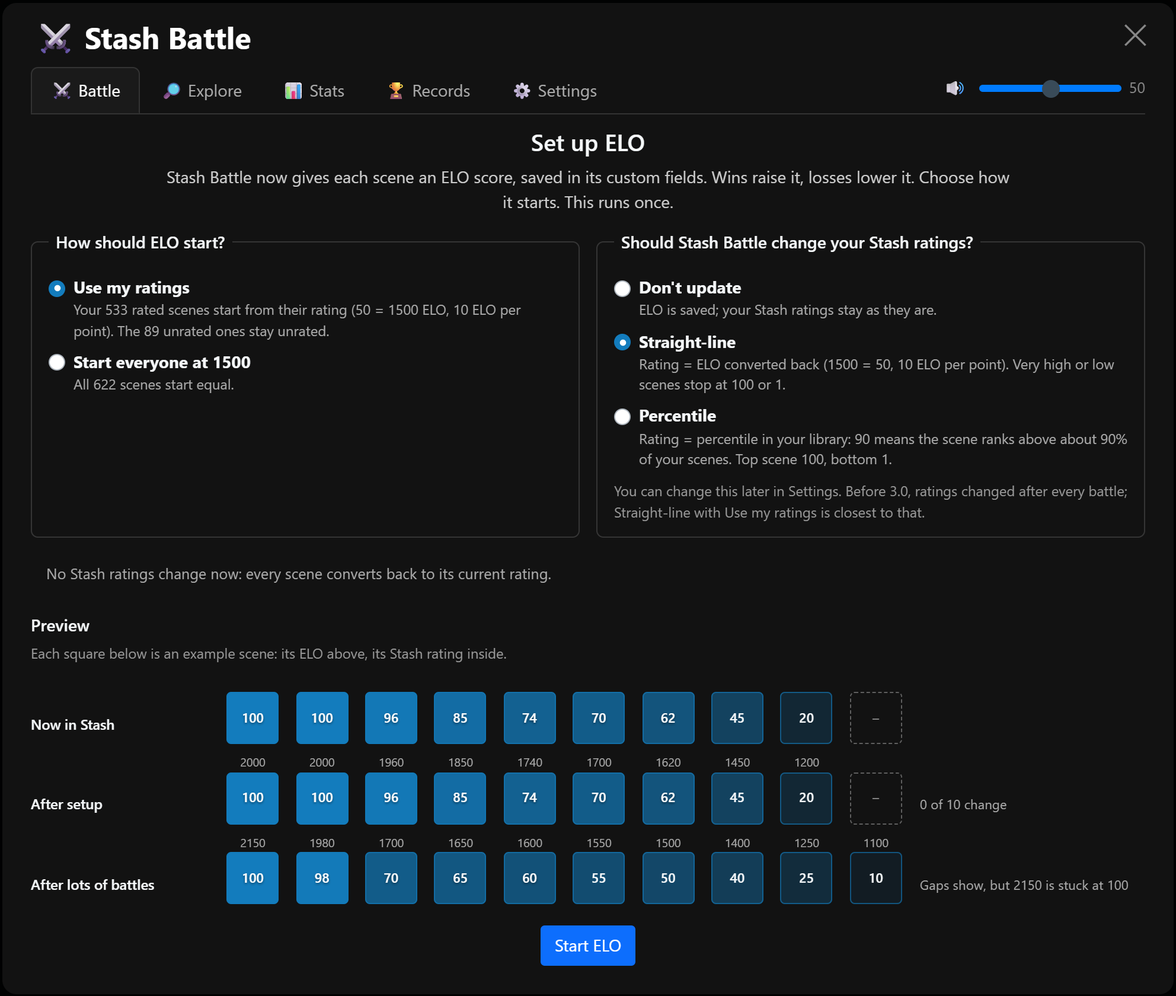
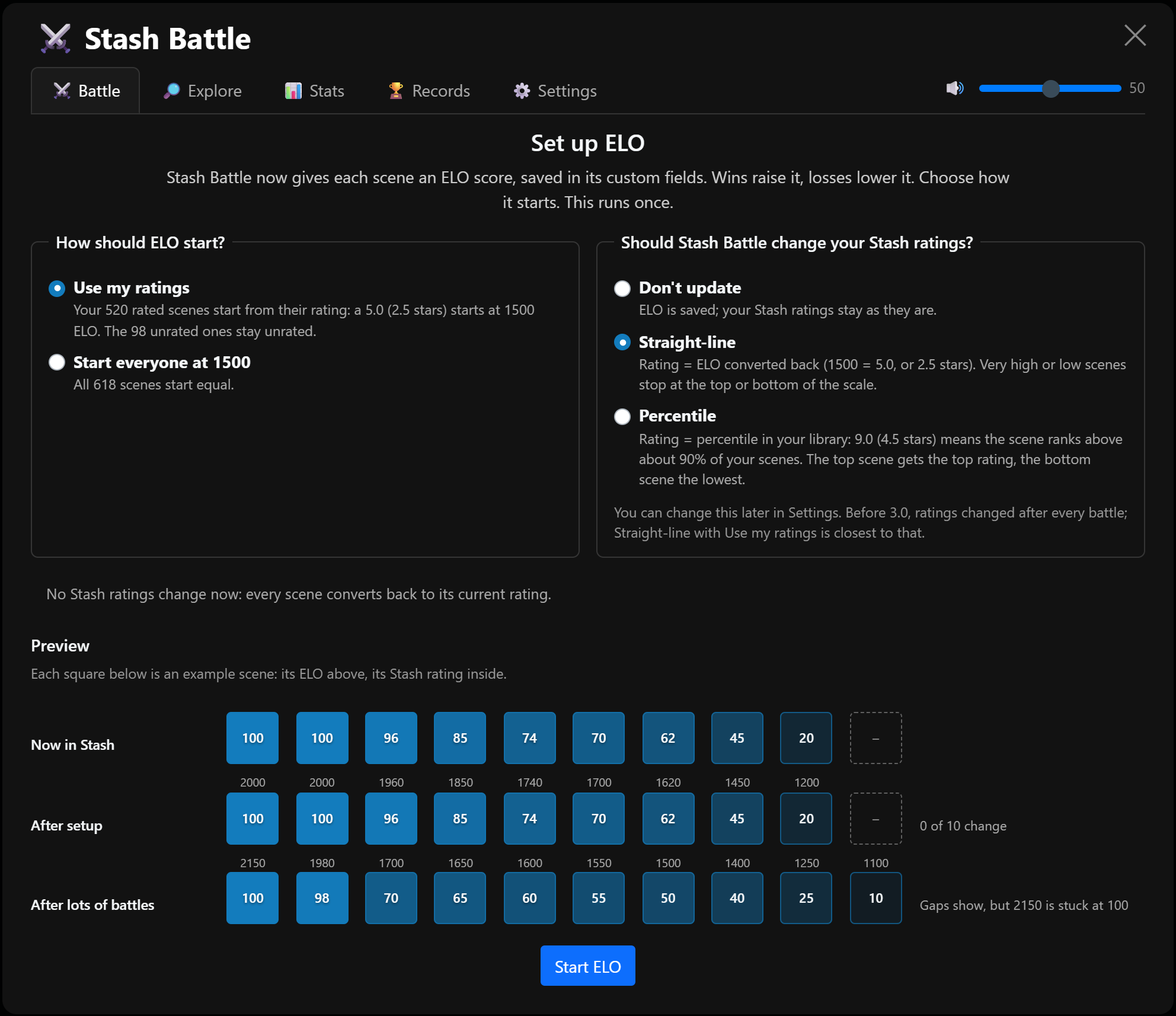
README: screenshots beside their features, shorter wording; ratings as 5.0 / stars.
The README's Features are subsections with their screenshot under each,
and the scene page's ELO button has screenshots now (new scene-page
shots in the screenshot script, everything else on the page hidden).
Ratings are described as users see them, "5.0 (2.5 stars)", not on
Stash's stored 1-100 scale, in the README, CHANGELOG, setup screen and
the Stash ratings descriptions.

diff --git a/plugins/stash-battle/stash-battle.js b/plugins/stash-battle/stash-battle.js
@@ -2343,12 +2343,12 @@
     {
       value: "linear",
       label: "Straight-line",
-      desc: "Rating = ELO converted back (1500 = 50, 10 ELO per point). Very high or low scenes stop at 100 or 1."
+      desc: "Rating = ELO converted back (1500 = 5.0, or 2.5 stars). Very high or low scenes stop at the top or bottom of the scale."
     },
     {
       value: "percentile",
       label: "Percentile",
-      desc: "Rating = percentile in your library: 90 means the scene ranks above about 90% of your scenes. Top scene 100, bottom 1."
+      desc: "Rating = percentile in your library: 9.0 (4.5 stars) means the scene ranks above about 90% of your scenes. The top scene gets the top rating, the bottom scene the lowest."
     }
   ];
   function stashRatingsOption(value) {
@@ -3146,7 +3146,7 @@
     if (state.settings.stashRatings === "off") {
       notes.push("Stash ratings aren't being updated, so there's no rating scale under the chart.");
     } else if (state.settings.stashRatings === "percentile") {
-      notes.push("Percentile spreads ratings 1-100 by rank, so the scale follows your library.");
+      notes.push("Percentile spreads ratings across the whole scale by rank, so the scale follows your library.");
     }
     return notes.length ? `<p class="sb-stats-note">${notes.join(" ")}</p>` : "";
   }
@@ -4429,9 +4429,9 @@
       text = "No Stash ratings change now: every scene converts back to its current rating.";
       warn = false;
     } else if (start === "fresh") {
-      text = `⚠ Every scene starts at 1500 ELO, so <strong>every Stash rating becomes 50</strong>: ${plural2(changes, "rating")} change, unrated scenes included. ${backup}`;
+      text = `⚠ Every scene starts at 1500 ELO, so <strong>every Stash rating becomes 5.0 (2.5 stars)</strong>: ${plural2(changes, "rating")} change, unrated scenes included. ${backup}`;
     } else {
-      text = `⚠ <strong>${plural2(changes, "Stash rating")} change</strong> now, spread evenly by rank. A scene you rated 100 by hand may end up lower. ${backup}`;
+      text = `⚠ <strong>${plural2(changes, "Stash rating")} change</strong> now, spread evenly by rank. A scene you rated 10.0 (5 stars) by hand may end up lower. ${backup}`;
     }
     return `<p class="sb-setup-message${warn ? " sb-setup-warning" : ""}">${text}</p>`;
   }
@@ -4457,7 +4457,7 @@
       "start",
       "ratings",
       "Use my ratings",
-      `Your ${plural2(rated, "rated scene")} start from their rating (50 = 1500 ELO, 10 ELO per point).${unrated > 0 ? ` The ${unrated} unrated ${unrated === 1 ? "one stays" : "ones stay"} unrated.` : ""}`,
+      `Your ${plural2(rated, "rated scene")} start from their rating: a 5.0 (2.5 stars) starts at 1500 ELO.${unrated > 0 ? ` The ${unrated} unrated ${unrated === 1 ? "one stays" : "ones stay"} unrated.` : ""}`,
       true
     )}
             ${radio(

diff --git a/src/ui/setupScreen.ts b/src/ui/setupScreen.ts
@@ -101,9 +101,9 @@ function ratingsMessage(start: EloStart, mode: StashRatingsMode, changes: number
     text = "No Stash ratings change now: every scene converts back to its current rating.";
     warn = false;
   } else if (start === "fresh") {
-    text = `⚠ Every scene starts at 1500 ELO, so <strong>every Stash rating becomes 50</strong>: ${plural(changes, "rating")} change, unrated scenes included. ${backup}`;
+    text = `⚠ Every scene starts at 1500 ELO, so <strong>every Stash rating becomes 5.0 (2.5 stars)</strong>: ${plural(changes, "rating")} change, unrated scenes included. ${backup}`;
   } else {
-    text = `⚠ <strong>${plural(changes, "Stash rating")} change</strong> now, spread evenly by rank. A scene you rated 100 by hand may end up lower. ${backup}`;
+    text = `⚠ <strong>${plural(changes, "Stash rating")} change</strong> now, spread evenly by rank. A scene you rated 10.0 (5 stars) by hand may end up lower. ${backup}`;
   }
   return `<p class="sb-setup-message${warn ? " sb-setup-warning" : ""}">${text}</p>`;
 }
@@ -144,7 +144,7 @@ function renderChoices(area: HTMLElement, scenes: Scene[], onDone: () => void): 
               "start",
               "ratings",
               "Use my ratings",
-              `Your ${plural(rated, "rated scene")} start from their rating (50 = 1500 ELO, 10 ELO per point).${unrated > 0 ? ` The ${unrated} unrated ${unrated === 1 ? "one stays" : "ones stay"} unrated.` : ""}`,
+              `Your ${plural(rated, "rated scene")} start from their rating: a 5.0 (2.5 stars) starts at 1500 ELO.${unrated > 0 ? ` The ${unrated} unrated ${unrated === 1 ? "one stays" : "ones stay"} unrated.` : ""}`,
               true,
             )}
             ${radio(

diff --git a/src/ui/stashRatingsText.ts b/src/ui/stashRatingsText.ts
@@ -7,12 +7,12 @@ export const STASH_RATINGS_OPTIONS: readonly { value: StashRatingsMode; label: s
   {
     value: "linear",
     label: "Straight-line",
-    desc: "Rating = ELO converted back (1500 = 50, 10 ELO per point). Very high or low scenes stop at 100 or 1.",
+    desc: "Rating = ELO converted back (1500 = 5.0, or 2.5 stars). Very high or low scenes stop at the top or bottom of the scale.",
   },
   {
     value: "percentile",
     label: "Percentile",
-    desc: "Rating = percentile in your library: 90 means the scene ranks above about 90% of your scenes. Top scene 100, bottom 1.",
+    desc: "Rating = percentile in your library: 9.0 (4.5 stars) means the scene ranks above about 90% of your scenes. The top scene gets the top rating, the bottom scene the lowest.",
   },
 ];
 

diff --git a/src/ui/statsTab.ts b/src/ui/statsTab.ts
@@ -186,7 +186,7 @@ function distributionNote(): string {
   if (state.settings.stashRatings === "off") {
     notes.push("Stash ratings aren't being updated, so there's no rating scale under the chart.");
   } else if (state.settings.stashRatings === "percentile") {
-    notes.push("Percentile spreads ratings 1-100 by rank, so the scale follows your library.");
+    notes.push("Percentile spreads ratings across the whole scale by rank, so the scale follows your library.");
   }
   return notes.length ? `<p class="sb-stats-note">${notes.join(" ")}</p>` : "";
 }

diff --git a/README.md b/README.md
@@ -18,81 +18,106 @@ ELO is saved in each scene's custom fields, so **Stash Battle doesn't touch your
 
 ## Features
 
-- **Three Comparison Modes:**
-  - **Swiss** ⚖ – Fair matchups between scenes with similar ELO. Both scenes' ELO changes after every pick. Scenes stay in the pool, so you can keep battling a small filter indefinitely.
-  - **Placement** 📍 – Place a scene fast. Each pick narrows the range of ranks it could land in (shown on its card). A rated scene starts near its current rank and takes bigger jumps while it keeps winning or losing, then bounces back with smaller steps once it overshoots. An unrated scene lands in about 10 picks even in a library of 500+ scenes. Only the placed scene's ELO changes, once, when it lands.
-    - **Start from the bottom** (a setting, and the replacement for Gauntlet): the scene ignores its current ELO, starts against your lowest scene and climbs, jumping further with each win (never more than a tenth of your library at once). A scene that never loses earns the Champion screen.
-  - **Champion** 🏆 – Winner stays on. The winning scene keeps defending until it's beaten, then the winner takes over. Both scenes' ELO changes every pick.
+### Three comparison modes
 
-- **One-time ELO setup**: the first time you open Stash Battle, choose how ELO starts (from your current star ratings, so your existing order carries over, or 1500 for every scene) and whether Stash ratings should be updated. A live preview shows what each choice does. You can start over any time with **Reset ELO** in Settings.
+- **Swiss** ⚖ – Fair matchups between scenes with similar ELO. Both scenes' ELO changes after every pick. Scenes stay in the pool, so you can keep battling a small filter indefinitely.
+- **Placement** 📍 – Place a scene fast. Each pick narrows the range of ranks it could land in (shown on its card). A rated scene starts near its current rank and takes bigger jumps while it keeps winning or losing, then bounces back with smaller steps once it overshoots. An unrated scene lands in about 10 picks even in a library of 500+ scenes. Only the placed scene's ELO changes, once, when it lands.
+  - **Start from the bottom** (a setting, and the replacement for Gauntlet): the scene ignores its current ELO, starts against your lowest scene and climbs, jumping further with each win (never more than a tenth of your library at once). A scene that never loses earns the Champion screen.
+- **Champion** 🏆 – Winner stays on. The winning scene keeps defending until it's beaten, then the winner takes over. Both scenes' ELO changes every pick.
 
-- **Stash ratings update mode** (Settings): your choice of whether Stash Battle writes your Stash ratings:
-  - **Don't update** (default): ELO is saved; your star ratings stay as they are.
-  - **Straight-line**: rating = ELO converted back (1500 = 50, 10 ELO per point). Very high or low scenes stop at 100 or 1.
-  - **Percentile**: rating = percentile in your library. 90 means the scene ranks above about 90% of your scenes; the top scene is 100, the bottom 1.
+| Placement | Champion |
+|-----------|----------|
+| <img width="420" alt="Placement mode: the scene being placed shows the range of ranks it could land in" src="docs/screenshots/placement.png" /> | <img width="420" alt="Champion mode: the winning scene stays on with a win streak badge" src="docs/screenshots/champion.png" /> |
 
-  Switching to Straight-line or Percentile tells you how many ratings will change before anything is written. While an update mode is on, each battle updates only the ratings that changed, and Stash's own pages show the new ratings without a refresh.
+### Scene cards
 
-- **Filtering**: Apply any filters on the scenes page before opening Stash Battle. What you see on the scenes page is what you get in Stash Battle, in every mode; a line above the cards shows whether you're rating your filter or your whole library, and how many scenes that is. By default, filtered scenes appear on the left (scenes to rate) and opponents come from your full library on the right.
+As in the screenshot at the top, each card shows the scene's tier, ELO and rank (`ELO 1740 · #50`), its record (`Record: 12–5`) and its Stash rating.
 
-- **Scene cards** show each scene's tier, ELO and rank (`ELO 1740 · #50`), its record (`Record: 12–5`) and its Stash rating.
-  - **Win chances** at the VS, like a chess broadcast: `68%` VS `32%`. Win with 40% or less and the result says **Upset!**
-  - **Tiers** 👑 Legendary · 💎 Diamond · 🔷 Platinum · 🥇 Gold · 🥈 Silver · 🥉 Bronze, by where a scene ranks among your settled scenes (top 1%, 5%, 15%, 35%, 65%, the rest), so every tier always has scenes in it. The card's border takes the tier's colour (a setting).
-  - A **`?`** after the ELO (`ELO 1540?`) means it's still settling: the scene has had fewer than 10 battles, and its ELO still moves a lot.
-
+- **Win chances** at the VS, like a chess broadcast: `68%` VS `32%`. Win with 40% or less and the result says **Upset!**
+- **Tiers** 👑 Legendary · 💎 Diamond · 🔷 Platinum · 🥇 Gold · 🥈 Silver · 🥉 Bronze, by where a scene ranks among your settled scenes (top 1%, 5%, 15%, 35%, 65%, the rest), so every tier always has scenes in it. The card's border takes the tier's colour (a setting).
+- A **`?`** after the ELO (`ELO 1540?`) means it's still settling: the scene has had fewer than 10 battles, and its ELO still moves a lot.
 - **↶ Undo** (or Backspace) takes back your last pick: both scenes' ELO and records, a Champion streak or Placement run, and the same pair comes back to pick again.
 
-- **🔎 Explore tab**: your whole library as small cards ranked by ELO. Search by title, studio or performer, filter by tier, provisional or unrated, pick an ELO range, and sort by ELO, plays, battles, best record, highest peak or longest win streak. Hover a card for its preview, click it to open the scene, or ⚔ to battle it. **Battle these N scenes** battles everything the filter shows (unrated scenes go straight to Placement) until you press Stop.
+### One-time ELO setup
 
-- **📊 Stats tab**:
-  - **Overview**: scenes with an ELO, unrated, provisional, total battles.
-  - **How settled** your rankings are, by battle count, with **Battle the least-tested**: Swiss puts your least-battled scenes on the left first, until you stop it.
-  - **ELO distribution**, with your Stash rating scale under it. Click a bar to see those scenes in Explore.
-  - **Hidden gems / overplayed**: ELO against play count. Top left are scenes you rank highly but rarely watch. Hover a dot to see the scene.
+The first time you open Stash Battle, choose how ELO starts (from your current star ratings, so your existing order carries over, or 1500 for every scene) and whether Stash ratings should be updated. A live preview shows what each choice does. You can start over any time with **Reset ELO** in Settings.
 
-- **🏆 Records tab**: the **hall of fame** (every scene that has ever been #1, and when it got there), the **longest win streaks** and the **highest peak ELOs**. The hall of fame is saved in Stash's plugin settings, so restoring a database backup doesn't change it; **Settings → Clear hall of fame** empties it.
+<img width="600" alt="ELO setup: how ELO starts, whether Stash ratings are updated, and a 10-scene preview" src="docs/screenshots/setup.png" />
 
-- **On Stash's scene pages**, the same `ELO 1740 · #50` sits next to the play count and O count, with the scene's tier emoji as its icon (⚔ while it has no tier). Click it to battle that scene.
+### Stash ratings update mode
 
-- **Settings tab** (most also under Stash's Settings → Plugins). Saves to Stash:
-  - **Stash ratings update mode**, **Reset ELO** (see above) and **Clear hall of fame**
-  - **Use filtered scenes for both sides**
-  - **Placement: start from the bottom**
-  - **Autoplay previews** – both loop silently; hover a card to hear it (on by default)
-  - **Tier colours on card borders** – on by default
-  - **Pause playing video when Stash Battle opens** – on by default; turn it off to keep a scene playing behind the battle
-  - **Open scenes in a new tab** when clicking a thumbnail
-  - **Clean mode** – a 🗑 button on each card opens Stash's own delete dialog (same options and defaults as deleting in Stash), so you can clean up without leaving the battle
+Your choice (in setup or Settings) of whether Stash Battle writes your Stash ratings:
 
-- **Preview volume** slider on the tab bar (it follows perceived loudness); click the speaker to mute or unmute.
+- **Don't update** (default): ELO is saved; your star ratings stay as they are.
+- **Straight-line**: rating = ELO converted back (1500 = 5.0, or 2.5 stars). Very high or low scenes stop at the top or bottom of the scale.
+- **Percentile**: rating = percentile in your library. 9.0 (4.5 stars) means the scene ranks above about 90% of your scenes; the top scene gets the top rating.
 
-- **Works on phones and tablets**: the cards stay side by side on tablets, stack compactly on phones, and Skip and Undo stay pinned at the bottom. On touch screens, tap a thumbnail to play or stop its preview, use 🔊 / 🔇 to hear or mute it, ↗ to open the scene, and ⓘ next to the modes for an explanation of the current mode. Tabs shrink to their emoji on small phones, and when Stash folds its menu away, a ⚔ button sits in the top bar next to other plugins' buttons.
+Switching to Straight-line or Percentile tells you how many ratings will change before anything is written. While an update mode is on, each battle updates only the ratings that changed, and Stash's own pages show the new ratings without a refresh.
 
-- **SFW Switch support**: thumbnails and previews blur when the [SFW Switch](https://github.com/stashapp/CommunityScripts) plugin's SFW mode is on.
+### Filtering
 
-## Screenshots
+Apply any filters on the Scenes page before opening Stash Battle. What you see on the Scenes page is what you get in Stash Battle, in every mode; a line above the cards shows whether you're rating your filter or your whole library, and how many scenes that is. By default, filtered scenes appear on the left (scenes to rate) and opponents come from your full library on the right; with **Use filtered scenes for both sides**, the filter's scenes battle each other.
 
-| Explore | Stats |
-|---------|-------|
-| <img width="480" alt="Explore tab: small scene cards with tier pills and ELO, search, tier filters, ELO range, sort and page controls" src="docs/screenshots/explore.png" /> | <img width="480" alt="Stats tab: overview numbers, how settled the rankings are with Battle the least-tested, and the ELO distribution" src="docs/screenshots/stats.png" /> |
+### 🔎 Explore
 
-| Records | Hidden gems |
-|---------|-------------|
-| <img width="480" alt="Records tab: the hall of fame of scenes that have been #1, the longest win streaks and the highest peak ELOs" src="docs/screenshots/records.png" /> | <img width="480" alt="Stats tab: hidden gems and overplayed, ELO against play count, with a scene's card on hover" src="docs/screenshots/gems.png" /> |
+Your whole library as small cards ranked by ELO. Search by title, studio or performer, filter by tier, provisional or unrated, pick an ELO range, and sort by ELO, plays, battles, best record, highest peak or longest win streak. Hover a card for its preview, click it to open the scene, or ⚔ to battle it. **Battle these N scenes** battles everything the filter shows (unrated scenes go straight to Placement) until you press Stop.
 
-| ELO setup | Settings |
-|-----------|----------|
-| <img width="480" alt="ELO setup: how ELO starts, whether Stash ratings are updated, and a 10-scene preview" src="docs/screenshots/setup.png" /> | <img width="480" alt="Settings tab: Stash ratings update mode, Reset ELO, battle and scene options" src="docs/screenshots/settings.png" /> |
+<img width="600" alt="Explore tab: small scene cards with tier pills and ELO, search, tier filters, ELO range, sort and page controls" src="docs/screenshots/explore.png" />
 
-| Placement mode | Champion mode |
-|----------------|---------------|
-| <img width="480" alt="Placement mode: the scene being placed shows the range of ranks it could land in" src="docs/screenshots/placement.png" /> | <img width="480" alt="Champion mode: the winning scene stays on with a win streak badge" src="docs/screenshots/champion.png" /> |
+### 📊 Stats
 
-On a phone:
+- **Overview**: scenes with an ELO, unrated, provisional, total battles.
+- **See how settled your rankings are**, and battle your least-tested scenes in one click.
+- **ELO distribution**, with your Stash rating scale under it. Click a bar to see those scenes in Explore.
+
+<img width="600" alt="Stats tab: overview numbers, how settled the rankings are with Battle the least-tested, and the ELO distribution" src="docs/screenshots/stats.png" />
+
+- **Hidden gems / overplayed**: ELO against play count. Top left are scenes you rank highly but rarely watch. Hover a dot to see the scene.
+
+<img width="600" alt="Stats tab: hidden gems and overplayed, ELO against play count, with a scene's card on hover" src="docs/screenshots/gems.png" />
+
+### 🏆 Records
+
+The **hall of fame** (every scene that has ever been #1, and when it got there), the **longest win streaks** and the **highest peak ELOs**. The hall of fame is saved in Stash's plugin settings, so restoring a database backup doesn't change it; **Settings → Clear hall of fame** empties it.
+
+<img width="600" alt="Records tab: the hall of fame of scenes that have been #1, the longest win streaks and the highest peak ELOs" src="docs/screenshots/records.png" />
+
+### On Stash's scene pages
+
+The same `ELO 1740 · #50` sits next to the play count and O count, with the scene's tier emoji. Click it to battle that scene.
+
+<img width="455" alt="A scene page's toolbar: the star rating, then a crown emoji with ELO 2114 · #1, then the play count and O count" src="docs/screenshots/scene-page.png" />
+
+<img width="375" alt="On a phone: the line under the scene's title starts with the crown emoji and ELO 2114 · #1" src="docs/screenshots/phone-scene-page.png" />
+
+### Settings
+
+Most are also under Stash's Settings → Plugins. Everything saves to Stash:
+
+- **Stash ratings update mode**, **Reset ELO** (see above) and **Clear hall of fame**
+- **Use filtered scenes for both sides**
+- **Placement: start from the bottom**
+- **Autoplay previews** – both loop silently; hover a card to hear it (on by default)
+- **Pause playing video when Stash Battle opens** – on by default; turn it off to keep a scene playing behind the battle
+- **Tier colours on card borders** – on by default
+- **Open scenes in a new tab** when clicking a thumbnail
+- **Clean mode** – a 🗑 button on each card opens Stash's own delete dialog (same options and defaults as deleting in Stash), so you can clean up without leaving the battle
+
+The **preview volume** slider sits on the tab bar (it follows perceived loudness); click the speaker to mute or unmute.
+
+<img width="600" alt="Settings tab: Stash ratings update mode, Reset ELO, Clear hall of fame, battle and scene options" src="docs/screenshots/settings.png" />
+
+### Phones and tablets
+
+Full phone and tablet support.
 
 | Battle | Explore | Stats |
 |--------|---------|-------|
 | <img width="260" alt="Phone: the two scenes stacked with the win chances between them, emoji tabs, and mute and open buttons on each card" src="docs/screenshots/phone-battle.png" /> | <img width="260" alt="Phone: Explore's filters and two columns of small scene cards" src="docs/screenshots/phone-explore.png" /> | <img width="260" alt="Phone: the Stats tab's overview, how settled the rankings are, and the ELO distribution" src="docs/screenshots/phone-stats.png" /> |
+
+### SFW Switch support
+
+Thumbnails and previews blur when the [SFW Switch](https://github.com/stashapp/CommunityScripts) plugin's SFW mode is on.
 
 ## Installation
 
@@ -111,7 +136,7 @@ Recommend saving a backup of your database beforehand (Settings → Tasks → Ba
 ## Usage
 
 1. (Optional) On the **Scenes** page, apply any filters or search to narrow down which scenes you want to rate (the line above the cards confirms what you're rating)
-2. Click the **Battle** button in the navbar. It's on every page: from the Scenes page it rates your filter's scenes, from anywhere else your whole library
+2. Click the **Battle** button in the navbar
 3. The first time, set up ELO: choose how it starts and whether your Stash ratings should be updated
 4. Choose a mode (hover a mode, or tap ⓘ on a phone, for a short explanation)
 5. Click a scene (or press ← / →) to pick the winner; Space skips the pair, and ↶ Undo (Backspace) takes back a pick
@@ -119,11 +144,9 @@ Recommend saving a backup of your database beforehand (Settings → Tasks → Ba
 
 You can also open Stash Battle on a scene page (the **Battle** button, or the ELO next to the play count), which puts that scene into a battle right away.
 
-Settings live in the **Settings** tab, after **Battle**, **Explore**, **Stats** and **Records**.
-
 ## How It Works
 
-Every scene gets an ELO score, stored in its custom fields (`stash_battle_elo`, alongside `stash_battle_battles` and `stash_battle_seeded`, and its record: `stash_battle_wins`, `_losses`, `_peak`, `_streak` and `_best_streak`). The hall of fame is kept in Stash Battle's plugin settings, so everything follows you across browsers and devices. Scenes start at 1500, or from their star rating if you choose "Use my ratings" at setup (50 stars = 1500, and each rating point is 10 ELO, so 100 = 2000 and 1 = 1010).
+Every scene gets an ELO score, stored in its custom fields (`stash_battle_elo`, alongside `stash_battle_battles` and `stash_battle_seeded`, and its record: `stash_battle_wins`, `_losses`, `_peak`, `_streak` and `_best_streak`). The hall of fame is kept in Stash Battle's plugin settings, so everything follows you across browsers and devices. Scenes start at 1500, or from their star rating if you choose "Use my ratings" at setup (a 5.0 rating, or 2.5 stars, starts at 1500; each 0.1 is 10 ELO, so 10.0 = 2000).
 
 - Beating a higher-rated scene earns more points than beating a lower-rated one
 - Losing to a lower-rated scene costs more points than losing to a higher-rated one

diff --git a/DOCUMENTATION.md b/DOCUMENTATION.md
@@ -114,7 +114,7 @@ The modules have intentional circular references (e.g. `navigation` → `modal` 
 - **esbuild** ([`scripts/build.mjs`](scripts/build.mjs)) bundles `src/main.ts` → `plugins/stash-battle/stash-battle.js` as an IIFE. esbuild transpiles but does **not** type-check.
 - **TypeScript** ([`tsconfig.json`](tsconfig.json), `strict: true`) is used purely for type-checking via `tsc --noEmit`.
 - **Headless harness** ([`scripts/harness.mjs`](scripts/harness.mjs)): `playwright-core` drives the Chrome (or Edge) already installed, headless, against the running Stash (`STASH_URL`, default `http://localhost:9999`). Every `/graphql` request goes through a fake layer, so **nothing is ever written to Stash**: `real` mode passes reads through and refuses every mutation; `fresh` hides Stash Battle's config and `stash_battle_*` fields (a first install) and keeps writes in memory, so later reads see them; `old` answers the custom-fields introspection without them; `big` serves a seeded synthetic library of any size. A privacy guard runs before Stash's scripts (the page behind the modal, images and videos hidden; titles, studios, performers and tags become placeholders). Both scripts snapshot Stash's scenes and Stash Battle's config before and compare after.
-- **Screenshots** ([`scripts/screenshots.mjs`](scripts/screenshots.mjs)): the README / forum shots as lossless PNGs, desktop at 2x (1040 px wide window, the modal box clipped) and phone at 3x (393 x 852, touch, hover off). The setup shot answers the config without `eloSetupAt` and hides the "earlier setup didn't finish" notice. Champion's streak and Placement's picks are made with their writes refused.
+- **Screenshots** ([`scripts/screenshots.mjs`](scripts/screenshots.mjs)): the README / forum shots as lossless PNGs, desktop at 2x (1040 px wide window, the modal box clipped) and phone at 3x (393 x 852, touch, hover off). The setup shot answers the config without `eloSetupAt` and hides the "earlier setup didn't finish" notice. Champion's streak and Placement's picks are made with their writes refused. The scene-page shots (`scene-page`, `phone-scene-page`) open a tiered scene's page and make only the toolbar (wide) or the subheader (phone) visible, so the scene's title, cover and video never show; Stash's own page writes (play activity) are refused like the rest.
 - **Smoke checks** ([`scripts/smoke.mjs`](scripts/smoke.mjs)): `fresh` runs a first install twice ("Use my ratings" + Don't update, "Start everyone at 1500" + Percentile): setup, picks, records, undo, every mode and tab, no page errors. `old` checks the "needs a newer Stash" message. `big [size]` times opening, a pick, each tab, Explore's sort and search on a synthetic library (default 20,000 scenes) and reports the longest main-thread block. Measured Oct 2026: 20,000 scenes open in about 1 s and every tab in under 0.2 s; 50,000 open in 1.6 s, Stats in 0.5 s. (Stash's own time to return a big library isn't included: the synthetic library is served instantly.)
 - **Tests** ([`scripts/test.mjs`](scripts/test.mjs)): Node can't run TypeScript directly, so the script bundles `tests/*.test.ts` with esbuild into `.test-build/` and runs them with Node's built-in test runner. The pure modules (`elo.ts`, `score.ts`, `placement.ts`, `stats.ts`, `explore.ts`) and `mergeConfig` / the hall of fame helpers (`tests/settings.test.ts`) are tested directly; `tests/sync.test.ts` covers the Stash rating sync and the Apollo refresh with a fake `fetch` and a fake `PluginApi`.
 

diff --git a/CHANGELOG.md b/CHANGELOG.md
@@ -14,11 +14,11 @@ A new rating system: Stash Battle now keeps a true ELO score for every scene, se
 
 - **True ELO** 📈: every scene gets an uncapped ELO score (the same idea chess uses), saved in its custom fields (`stash_battle_elo`, `stash_battle_battles`, `stash_battle_seeded`). Scenes are no longer squeezed into 1-100, so your favourites can keep pulling ahead instead of piling up at 100.
 - **One-time ELO setup**: the first time you open Stash Battle, choose how ELO starts:
-  - **Use my ratings**: every rated scene starts from its star rating, so your existing order carries over (50 stars = 1500 ELO, 10 ELO per rating point).
+  - **Use my ratings**: every rated scene starts from its star rating, so your existing order carries over (a 5.0 rating, or 2.5 stars, starts at 1500 ELO).
   - **Start everyone at 1500**: every scene starts equal.
   
   A live 10-scene preview shows what each choice does, and how many of your ratings would change, before anything is written.
-- **Stash ratings update mode** (Settings): Don't update (the default), **Straight-line** (rating = ELO converted back, 1500 = 50), or **Percentile** (rating = percentile in your library: the top scene is 100, the bottom 1). Switching tells you exactly how many ratings will change. While it's on, each battle writes only the ratings that changed, in one go, and Stash's own pages show the new ratings without a refresh.
+- **Stash ratings update mode** (Settings): Don't update (the default), **Straight-line** (rating = ELO converted back, 1500 = 5.0 or 2.5 stars), or **Percentile** (rating = percentile in your library: the top scene gets the top rating, the bottom scene the lowest). Switching tells you exactly how many ratings will change. While it's on, each battle writes only the ratings that changed, in one go, and Stash's own pages show the new ratings without a refresh.
 - The **Placement and Champion end screens** show where the scene's Stash rating ended up, while a Stash ratings update mode is on.
 - **Reset ELO** (Settings): start every scene's ELO over, with the same choices as the setup. Cancel any time before pressing Start.
 - **Placement → Start from the bottom** (a setting): a scene ignores its current ELO and climbs from your lowest scene, jumping further with each win, with a win streak badge and a Champion screen if it never loses. **This replaces Gauntlet**, with much shorter runs (about 8-21 battles in a 600-scene library).
